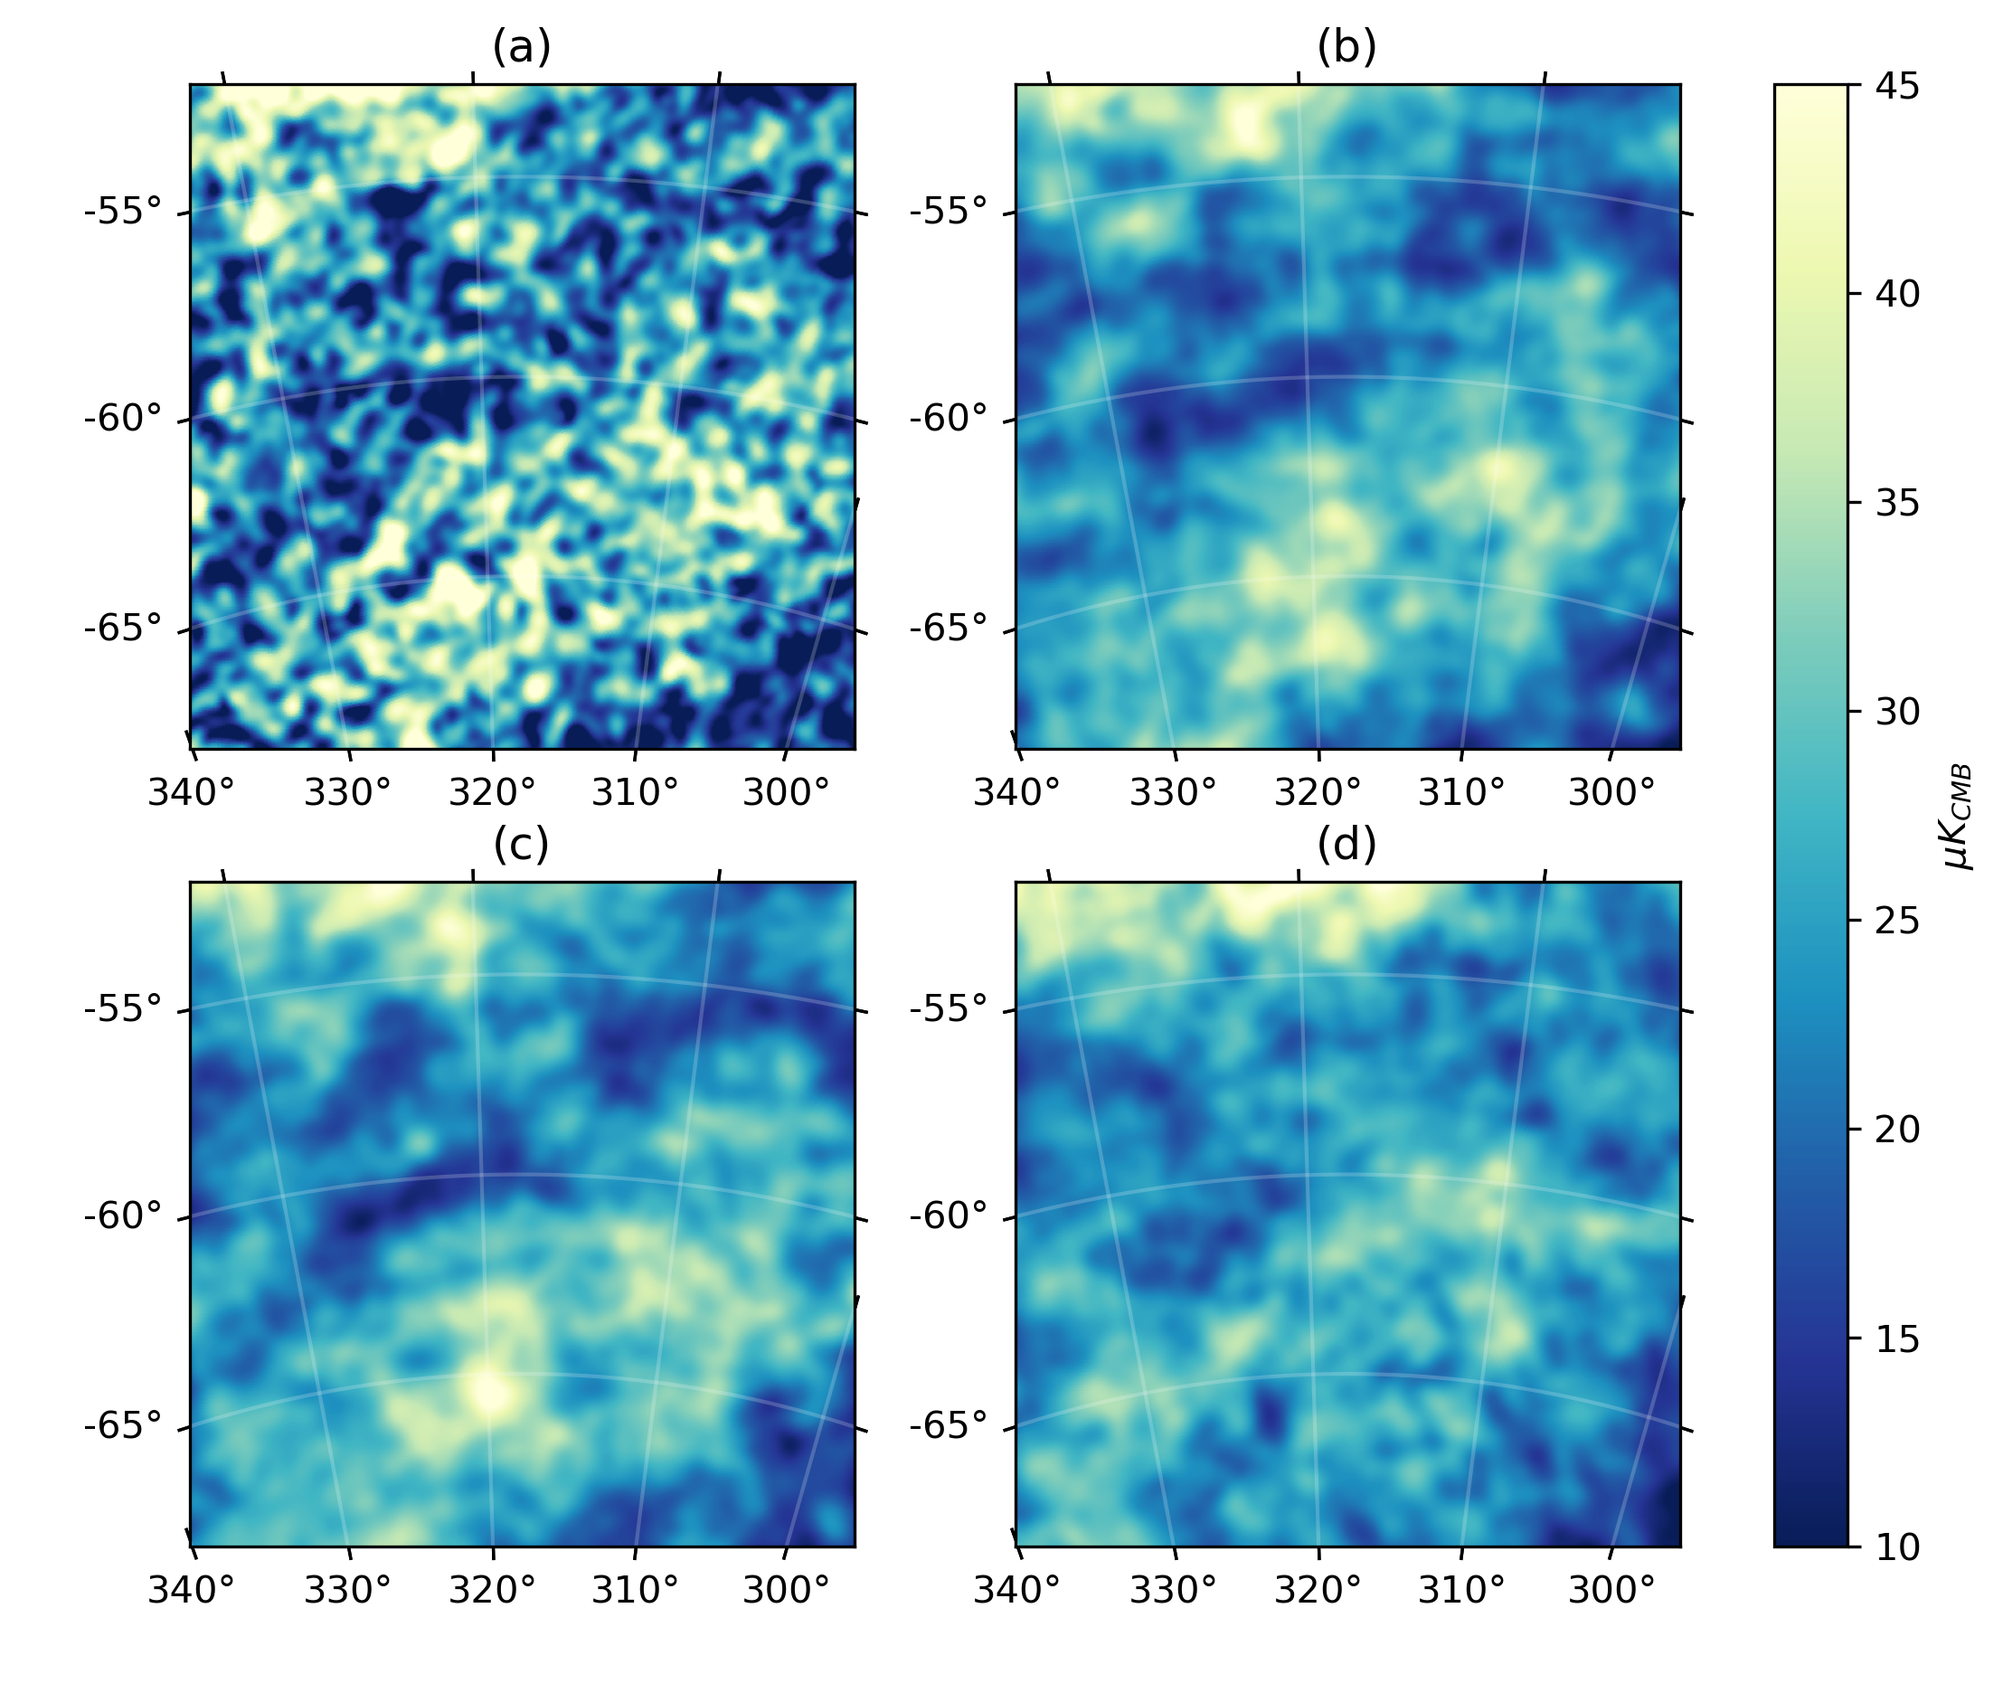
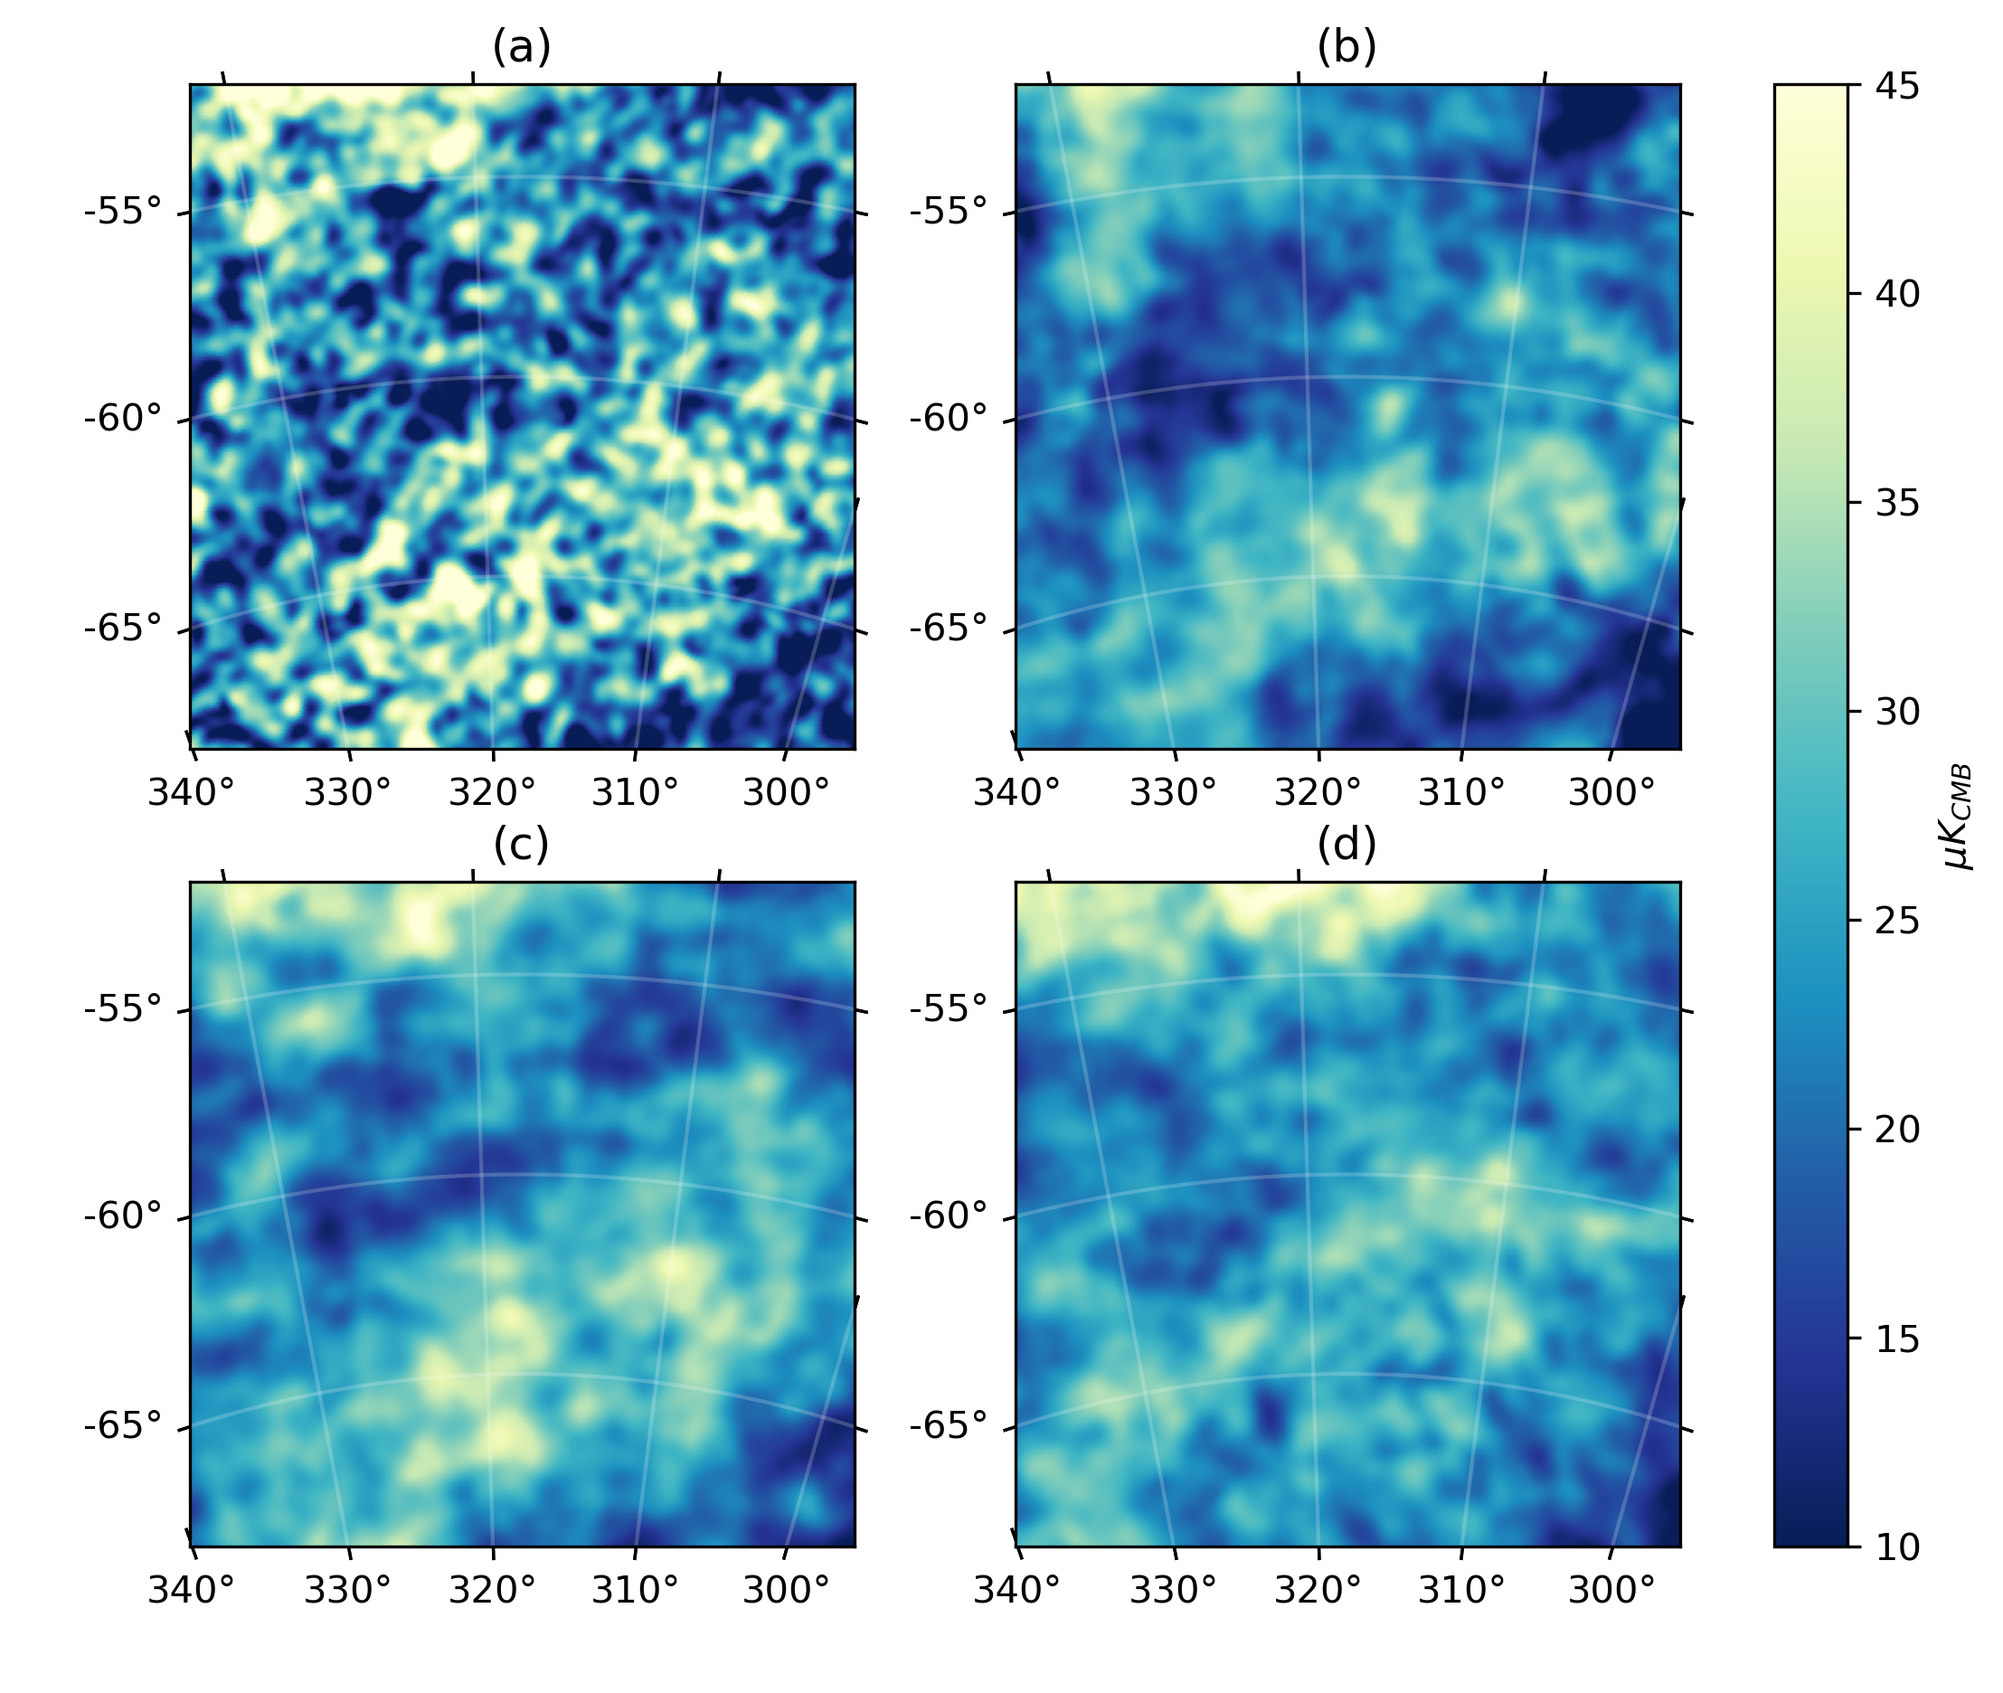
Update on Overleaf.

Changed region(s): [[0.4984, 0.031, 0.8411, 0.4647], [0.0935, 0.4957, 0.4361, 0.9295]]

diff --git a/main.tex b/main.tex
@@ -395,15 +395,19 @@ where $S_\nu(\theta)$ stands for any of the three Stokes parameters of interest,
 In the implementation used here, the 353~GHz templates for the six emission layers are slightly different from those of \cite{Martinez-Solaeche:2018} as we construct them from more recent Planck data products. Large scale polarized emission maps are the GNILC maps obtained in \cite{planck2016-l04} using the method developed by \cite{Remazeilles:2011}. These are complemented by small scale realizations with scale dependence matching the $T$, $E$ and $B$ dust spectra measured in \cite{planck2016-l11A}, modulated by the large scale local intensity and polarized intensity level. This does result in some filtering out of the real small scale power in intensity and polarization, which is replaced by random fluctuations. Thus we expect departures from the non-Gaussian and non-stationary properties of real dust emission at these scales. %We devote a future work the improvement of statistical properties of the generated of small scale fluctuations.
 
 \subsection{CO Models} \label{subsec:co_models}
-Galactic CO line emission is strong enough that the $J = 1\rightarrow0$, $J = 2\rightarrow1$, $J = 3\rightarrow2$ transitions have been detected even in the broad photometric Planck bands \citep{planck2013-p03a, planck2014-a12}. Since CO emission can be polarized \citep{Goldreich:1981}, it may be a relevant foreground for CMB polarization analyses \citep{Puglisi:2017}.  In this section, we provide further details on the  implementation of three CO into the PySM~3 framework.
+Galactic CO line emission is strong enough that the $J = 1\rightarrow0$, $J = 2\rightarrow1$, $J = 3\rightarrow2$ transitions have been detected even in the broad photometric Planck bands \citep{planck2013-p03a, planck2014-a12}. Since CO emission can be polarized \citep{Goldreich:1981}, it may be a relevant foreground for CMB polarization analyses \citep{Puglisi:2017}. In this section, we describe the implementation of three CO models into the PySM~3 framework.
 
+All CO models implemented here are based on the CO $J = 1\rightarrow0$, $J = 2\rightarrow1$, $J = 3\rightarrow2$ \texttt{Type-1} intensity maps\footnote{\url{HFI_CompMap_CO-Type1_2048_R2.00.fits}} derived by \citet{planck2013-p03a} from Planck data. The CO maps are obtained exploiting the mismatches in the detector bandpasses to recover the CO from the CMB and the other Galactic foregrounds usi the Modified Internal Linear Combination Algorithm (\texttt{MILCA}) component separation algorithm. The templates produced from this analysis is preferred to direct measurements from existing spectroscopic surveys \citep[e.g.,][]{Dame:2001} because it is not limited to low Galactic latitudes and has a uniform angular resolution over the sky.
 
-All CO models implemented here are based on the CO \texttt{Type-1} intensity maps\footnote{\url{HFI_CompMap_CO-Type1_2048_R2.00.fits}} derived by \citet{planck2013-p03a}. The CO maps are obtained exploiting the mismatches in the detector bandpass to recover the CO from the CMB and the other Galactic foregrounds, with the Modified Internal Linear Combination Algorithm (\texttt{MILCA}) component separation algorithm. The CO  $J = 1\rightarrow 0 $ template is preferred to those from existing spectroscopic surveys \citep[e.g.,][]{Dame:2001} because it is not limited to low Galactic latitudes and has a uniform angular resolution. Moreover, \emph{Planck } \texttt{Type-1} do not involve multi-frequency data for  separating  foregrounds and   is thus less prone to  mismodelling the recovered dust. Hence, we prefer type1 over type2 templates. are less affected by frequency mismodelling of dust.  Consequentely, we    prefer  \texttt{Type-1} over   \texttt{Type-2} and \texttt{Commander} templates.     Although the map is released at a resolution of 10\arcmin, we convolve it with a 1$^\circ$ Gaussian beam to reduce noise contamination especially at intermediate and high Galactic latitudes. We remark here that this procedure might result into residual emission due to extended Galactic and extra-galactic sources.   The template is then downgraded to coarser pixellization of \texttt{nside=512}.
-The first CO model {\bf\texttt{co1}} adopts the $J = 1\rightarrow0,$  $J = 2\rightarrow1$ and $J = 3\rightarrow2$ templates and assumes no polarization. 
+\citet{planck2013-p03a} also produced \texttt{Type-2} templates based on a multi-frequency analysis. This method is more prone to modeling errors in separating the Galactic dust emission, so we prefer the \texttt{Type-1} templates for our purposes. 
+
+The CO templates have a native resolution of 10\arcmin. We convolve each of the $J = 1\rightarrow0$, $J = 2\rightarrow1$, and $J = 3\rightarrow2$ maps with a 1$^\circ$ Gaussian beam to reduce noise contamination especially at intermediate and high Galactic latitudes at the possible expense of introducing residual emission from extended Galactic and extra-galactic sources. Finally, the template is downgraded to a coarser pixellization of \texttt{nside=512}. These templates are the foundation on which the CO models are built.
+
+The first CO model {\bf\texttt{co1}} adopts the $J = 1\rightarrow0,$  $J = 2\rightarrow1$ and $J = 3\rightarrow2$ templates as-is and assumes no polarization. 
 
 The second CO model {\bf\texttt{co2}} introduces a simple implementation of polarization. The $I$ maps of the three transitions used in  {\bf\texttt{co1}} are converted to $P$ maps using a sky-constant, user-defined polarization fraction $p$, where the default is $p = 0.1$\%. The $Q$ and $U$ maps are made from the $P$ maps using the polarization angle of the thermal dust emission as determined by a component separation analysis with Commander \citep{planck2014-a12}.
 
-Finally, the third CO model {\bf\texttt{co3}} not only accounts for the polarized emission as in {\bf\texttt{co2}} but also includes small-scale emission from high-Galactic latitude clouds. We adopt the {\bf\texttt{LogSpiral}} model from \citet{Puglisi:2017}, which provided the best fit to Planck data, and perform a dedicated simulation to produce sub-degree and high - Galactic latitude  contribution   of  total intensity  and polarized emission due to the  high-Galactic latitude  molecular clouds. The $I$, $Q$, and $U$ maps generated by the simulation are then added to the $I$, $Q$, and $U$ maps of {\bf\texttt{co2}} to produce the final {\bf\texttt{co3}} model.
+Finally, the third CO model {\bf\texttt{co3}} not only accounts for the polarized emission as in {\bf\texttt{co2}} but also includes small-scale emission from high-Galactic latitude clouds. We perform a dedicated simulation with the {\bf\texttt{LogSpiral}} model from \citet{Puglisi:2017}, which provided the best fit to Planck data, to produce maps of the contribution to the total and polarized CO intensity at sub-degree scales from molecular clouds at high Galactic latitudes. The $I$, $Q$, and $U$ maps generated by the simulation are then added to the $I$, $Q$, and $U$ maps of {\bf\texttt{co2}} to produce the final {\bf\texttt{co3}} model.
  
 \section{Validation and Characterization of Models} \label{sec:validation}
 
@@ -424,7 +428,7 @@ While in Section~\ref{sec:sync_validation}, we compare the PySM synchrotron mode
 \subsection{Maps}\label{subsec:maps}
 
 PySM models are based on noisy observations of Galactic foreground amplitude maps, complemented in some cases by randomly generated small-scale features (sec.~\ref{sec:small_scales}). Maps of frequency scaling parameters also comprise randomly generated fluctuations, the generation of which is different for the various models. It is important to check to which extent model maps match with observations in the frequency range of interest. In this first step of validation of the PySM foreground models, we compare, for the different foreground models considered here, maps generated using the PySM and actual observations in the frequency range of interest.%\textcolor{red}{[What frequencies do we want to cover? I suggest at least 23~GHz--353~GHz, but this does not fully cover the frequency range of CMB-S4 and LiteBIRD]}
-Specifically, we compare observations the Planck third data release PR3 \cite{planck2016-l03} and PySM dust models \texttt{d9}, {\tt d11}, {\tt d12} models at the map level. As \texttt{d9} and {\tt d11} have random fluctuations generated as described in section \ref{sec:small_scales}, we expect that we do not recover as well the small scales in data as for the d12 model \ref{sec:layers}.
+Specifically, we compare observations the Planck third data release PR3 \cite{planck2016-l03} and PySM dust models \texttt{d1}, {\tt d9}, {\tt d12} models at the map level. As \texttt{d9} has random fluctuations generated as described in section \ref{sec:small_scales}, we expect that we do not recover as well the small scales in data as for the d12 model \ref{sec:layers}.
 We study how the modeled intensity $I$ and polarized intensity $P = \sqrt{U^2 + Q^2}$ compare to the observations on three selected $16.7^\circ \times 16.7^\circ$ patches of the sky, at 353~GHz. Here, we focus on two local patches: close to the Galactic plane ($[l,b] =[180^\circ,-10^\circ]$) and, centered on the Bicep / Keck field ($[l,b] =[318^\circ,-61^\circ]$).
 We integrate the dust models within the Planck passband (\cite{planck2013-p03d})\footnote{\url{http://pla.esac.esa.int/pla/aio/product-action?MAP.MAP_ID=HFI_RIMO_R3.00.fits}}, to enable a more straightforward comparison. For the comparison of dust intensity maps, we subtract a Wiener-filtered CMB temperature anisotropies map from SMICA and also adjust (setting to zero) the zero level of the PR3 data and of the simulated maps over a small region of very low dust emission, totaling a sky fraction of 2.5\%.
 %to that of the simulated map over regions of faint dust intensity on the sky.
@@ -447,7 +451,7 @@ These corrections are not required for comparing polarization data.
 \begin{figure}[ht!]
     \centering
     \includegraphics[width=0.5\textwidth]{figures/gal_plane_non_smooth_wo_zero_lvl.png}
-\caption{Dust intensity at 353GHz at [l = 180, b = -10] with an angular resolution of $4.94\arcmin$: (a) PR3 (b) d9 (c) d11 (d) d12.}    
+\caption{Dust intensity at 353GHz at [l = 180, b = -10] with an angular resolution of $4.94\arcmin$: (a) PR3 (b) d1 (c) d9 (d) d12.}    
 \label{fig:353_int_gal_plane}
 \end{figure}
 % \begin{figure}
@@ -459,14 +463,14 @@ These corrections are not required for comparing polarization data.
 \begin{figure}[ht!]
     \centering
     \includegraphics[width=0.5\textwidth]{figures/BK_smooth_30'_wo_zero_lvl.png}
-    \caption{Dust intensity at 353GHz at [l = 318, b = -61] with an angular resolution of $30\arcmin$: (a) PR3 (b) d9 (c) d11 (d) d12. Here, PR3 is contaminated by CIB and extragalactic sources.}
+    \caption{Dust intensity at 353GHz at [l = 318, b = -61] with an angular resolution of $30\arcmin$: (a) PR3 (b) d1 (c) d9 (d) d12. Here, PR3 is contaminated by CIB and extragalactic sources.}
     \label{fig:353_int_BK}
 \end{figure}
 
 \begin{figure}[ht!]
     \centering
     \includegraphics[width=0.5\textwidth]{figures/pol_gal_plane_smooth_30'.png}
-    \caption{Polarized dust intensity at 353GHz centered at [l = 180, b = -10], smoothed to $30\arcmin$: (a) PR3 (b) d9 (c) d11 (d) d12.}
+    \caption{Polarized dust intensity at 353GHz centered at [l = 180, b = -10], smoothed to $30\arcmin$: (a) PR3 (b) d1 (c) d9 (d) d12.}
     \label{fig:353_pol_int_gal_plane}
 \end{figure}
 % \begin{figure}
@@ -479,7 +483,7 @@ These corrections are not required for comparing polarization data.
 \begin{figure}[ht!]
     \centering
     \includegraphics[width=0.5\textwidth]{figures/pol_BK_smooth_30'.png}
-    \caption{Polarized dust intensity at 353GHz centered at [l = 318, b = -61], smoothed to $30\arcmin$: (a) PR3 (b) d9 (c) d11 (d) d12.}
+    \caption{Polarized dust intensity at 353GHz centered at [l = 318, b = -61], smoothed to $30\arcmin$: (a) PR3 (b) d1 (c) d9 (d) d12.}
     \label{fig:353_pol_int_BK}
 \end{figure}
 
@@ -672,9 +676,7 @@ It is noteworthy that the frequency dependence of $R_\ell^{BB}(217\times\nu)$ is
 
 At present, it is unclear whether d1, d9, d10, or d12 is a more accurate description of the spatial variability of $T_d$ and $\beta_d$ and thus of frequency decorrelation. Constraints on decorrelation at higher frequencies where the models diverge most sharply would enable more accurate predictions for the level of decorrelation expected at CMB frequencies. As component separation techniques continue to improve by incorporating information in both the pixel domain and the harmonic domain, and as new data sets are becoming available, it is also timely to revisit the component separation analysis with the aim of making improved $T_d$ and $\beta_d$ maps.
 
-\subsection{Extragalactic contamination}
-
-\label{sec:CIBcontamination}
+\subsection{Extragalactic contamination} \label{sec:CIBcontamination}
 
 %[Stanford student Monica Hicks is working with Susan on cross-correlating our models with galaxy surveys a la Chiang \& Menard.] 
 
@@ -989,7 +991,7 @@ Short forward-looking paragraph.
 
 \begin{acknowledgments}
 
-This work was supported by the National Science Foundation under grant No. AST-2106607 (PI S.E.C.). This work was carried out in part at the Jet Propulsion Laboratory, California Institute of Technology, under a contract with the National Aeronautics and Space Administration. We are grateful to the BICEP/Keck collaboration for sharing their BK18 matrix products for the validation analysis of this paper. 
+This work was supported by the National Science Foundation under grant No. AST-2106607 (PI S.E.C.). This work was carried out in part at the Jet Propulsion Laboratory, California Institute of Technology, under a contract with the National Aeronautics and Space Administration. We thank the BICEP/Keck collaboration for sharing the BK18 matrix products for the validation analysis of this paper. 
 
 \end{acknowledgments}
 
